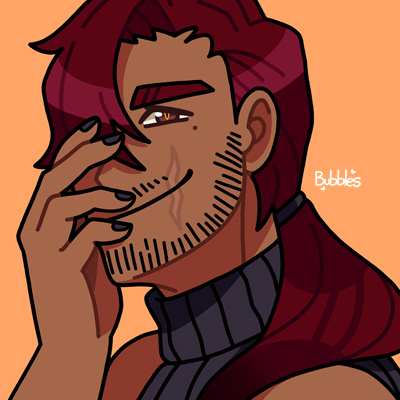
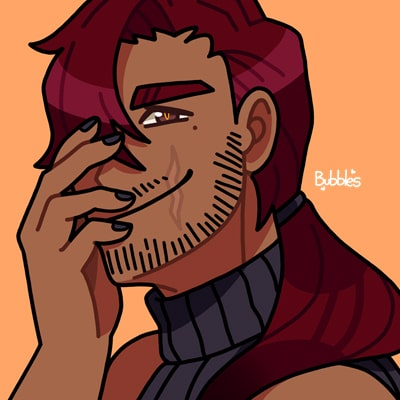
optimized image sizes. added a credit

diff --git a/src/css/custom.css b/src/css/custom.css
@@ -68,6 +68,12 @@
 
 @media screen and (max-width: 996px) {
   .heroBanner {
+    padding: 2rem;
+    -webkit-background-size: contain no-repeat;
+  -moz-background-size: contain no-repeat;
+  -khtm-background-size: contain no-repeat;
+  -o-background-size: contain no-repeat;
+  background-size: contain no-repeat;
     background-position: center top;
   }
 }

diff --git a/src/pages/index.module.css b/src/pages/index.module.css
@@ -42,6 +42,11 @@
 @media screen and (max-width: 996px) {
   .heroBanner {
     padding: 2rem;
+    -webkit-background-size: contain no-repeat;
+  -moz-background-size: contain no-repeat;
+  -khtm-background-size: contain no-repeat;
+  -o-background-size: contain no-repeat;
+  background-size: contain no-repeat;
     background-position: center top;
   }
 }

diff --git a/src/pages/about.md b/src/pages/about.md
@@ -21,4 +21,4 @@ The creator, Aremo_te, first envisioned the project in 6th grade while left alon
 [Patreon](https://www.patreon.com/aremo_te)
 
 ### Credits
-[Aremo-te](https://bio.link/aremo_te) as main creator, [Jun](https://junjie.carrd.co/) as creative advisor, Original "Anomaly Project" Discord group for feedback/ideas (including Nico, Arya, [Void](https://twitter.com/voidicium), [Valentino](https://qhostorb.tumblr.com)), and [Magz](https://cristaldotgema.com) for website creation and creative feedback help.
+[Aremo-te](https://bio.link/aremo_te) as main creator, [Jun](https://junjie.carrd.co/) as creative advisor, Yū as creative editor/advisor, Original "Anomaly Project" Discord group for feedback/ideas (including Nico, Arya, [Void](https://twitter.com/voidicium), [Valentino](https://qhostorb.tumblr.com)), and [Magz](https://cristaldotgema.com) for website creation and creative feedback help.
